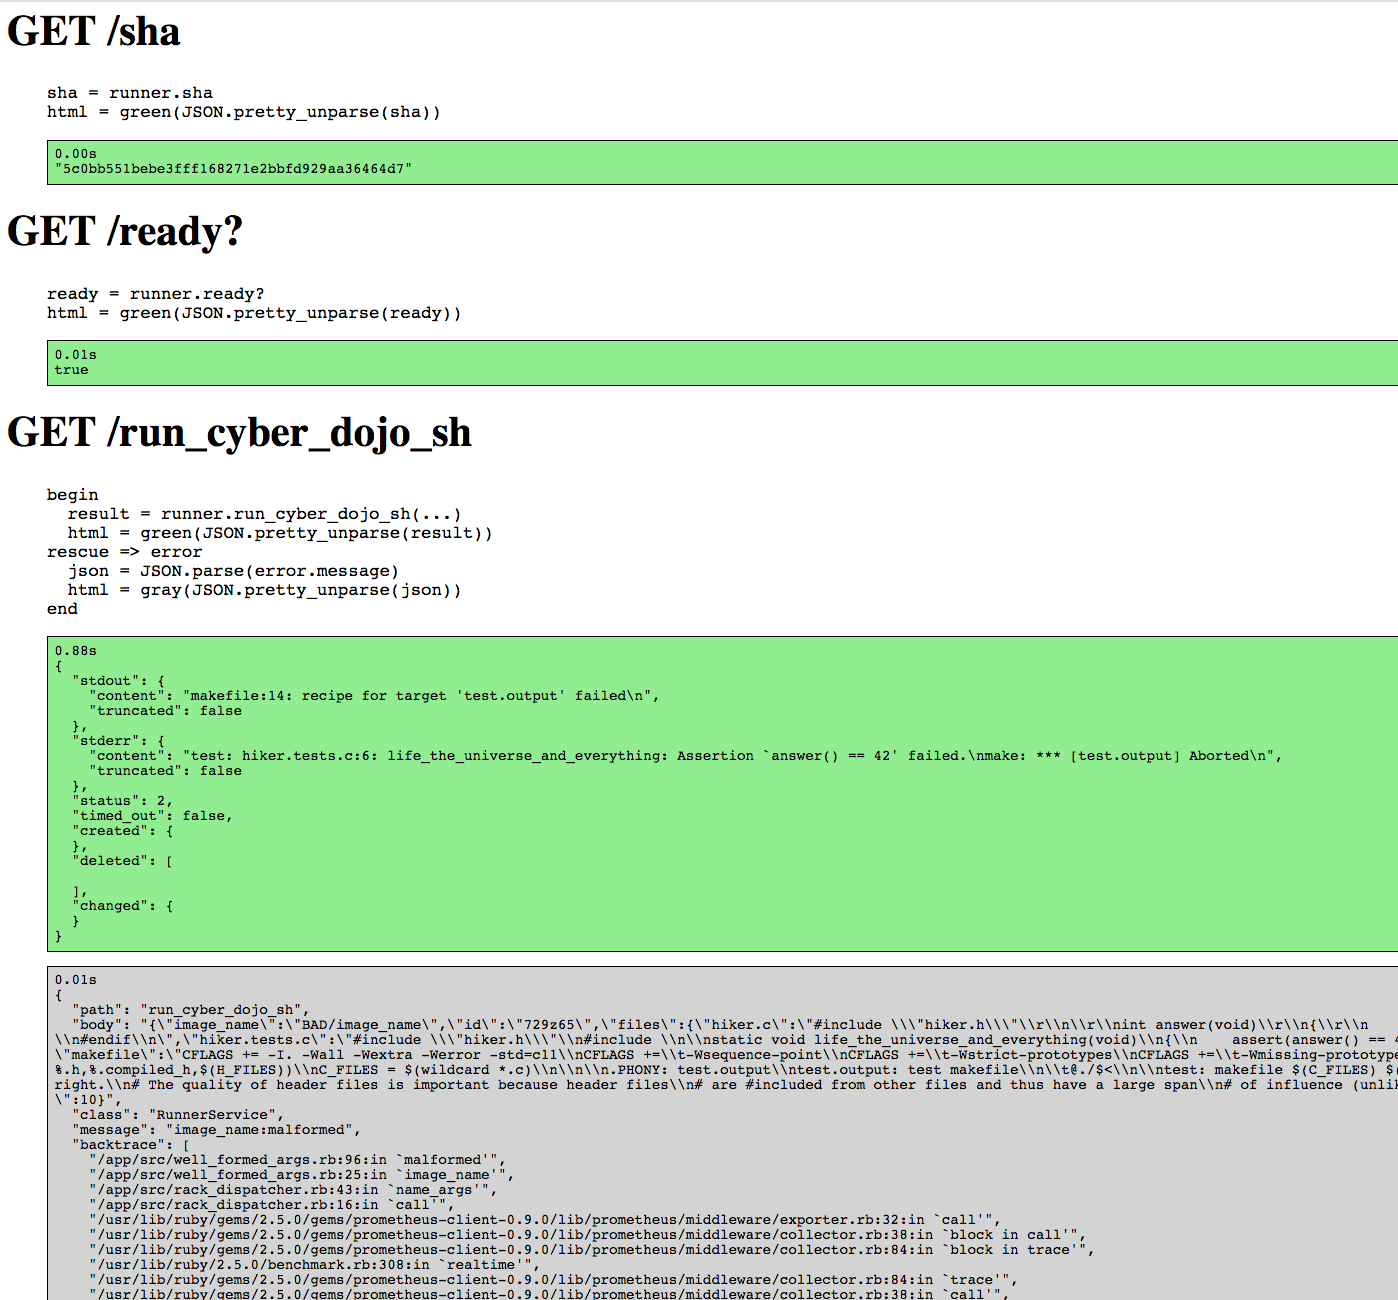
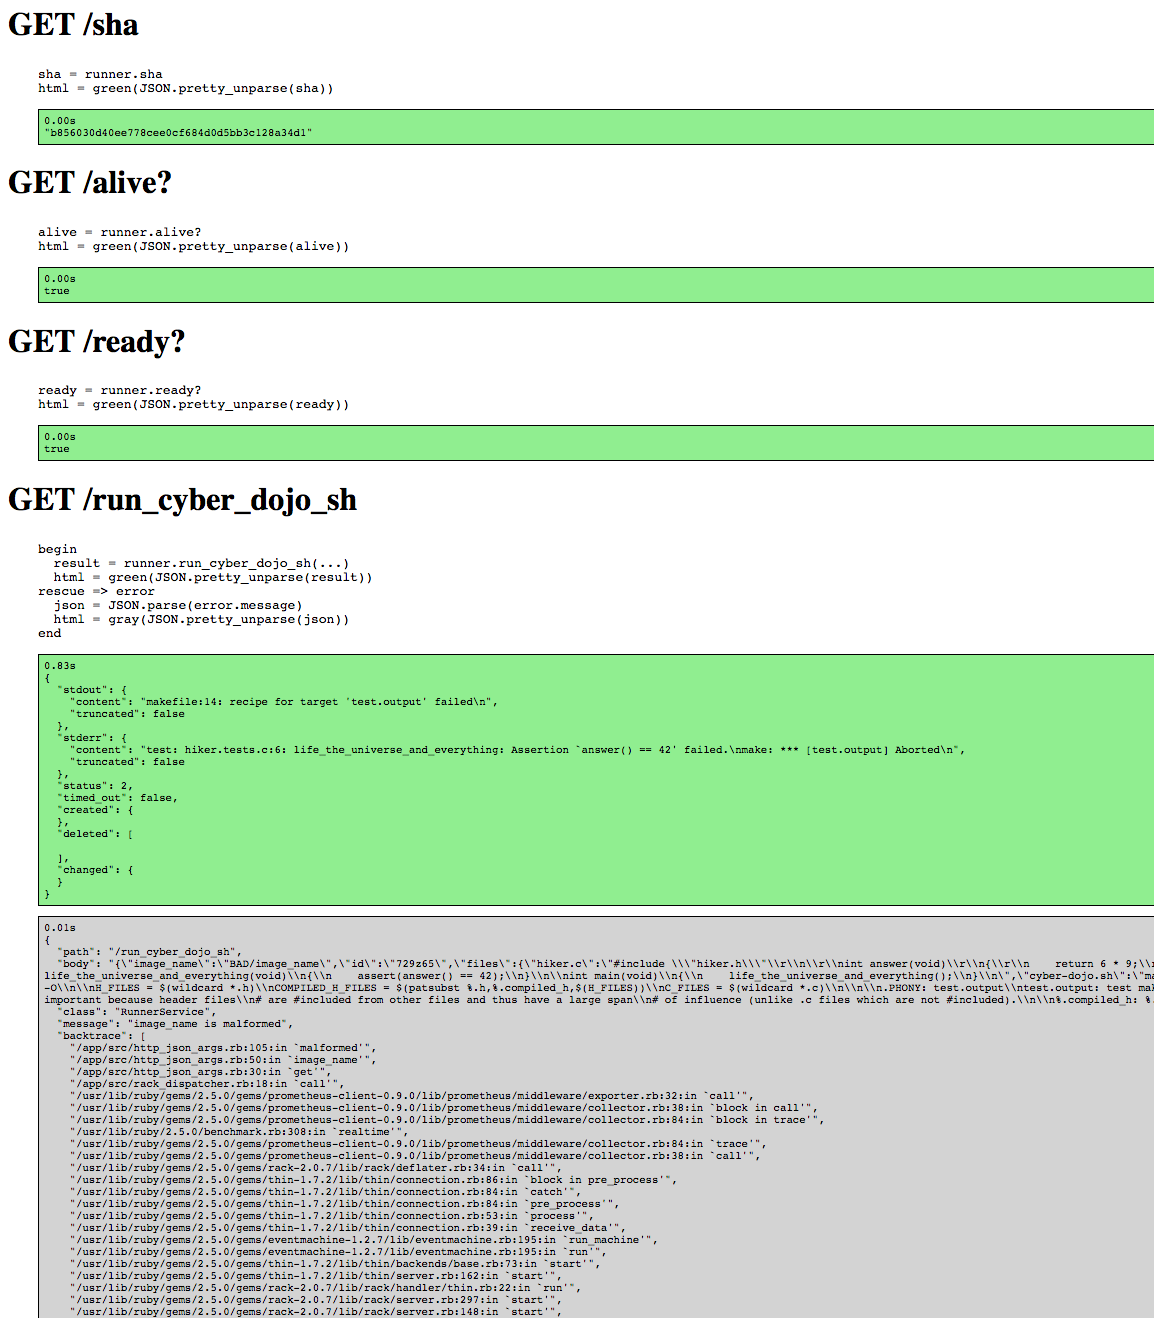
[ci skip] demo update

diff --git a/test_client/src/demo.rb b/test_client/src/demo.rb
@@ -15,10 +15,13 @@ class Demo
     @html += '<h1>GET /sha</h1>'
     @html += pre(sha_snippet)
     sha
+    @html += '<h1>GET /alive?</h1>'
+    @html += pre(alive_snippet)
+    alive?
     @html += '<h1>GET /ready?</h1>'
     @html += pre(ready_snippet)
     ready?
-    @html += '<h1>GET /run_cyber_dojo_sh</h1>'    
+    @html += '<h1>GET /run_cyber_dojo_sh</h1>'
     @html += pre(run_cyber_dojo_sh_snippet)
     @image_name = 'cyberdojofoundation/gcc_assert'
     @id = '729z65'
@@ -40,6 +43,20 @@ class Demo
     [
       'sha = runner.sha',
       'html = green(JSON.pretty_unparse(sha))'
+    ].join("\n")
+  end
+
+  # - - - - - - - - - - - - - - - - - - - - -
+
+  def alive?
+    duration = timed { @result = runner.alive? }
+    @html += boxed_pre(duration, @result)
+  end
+
+  def alive_snippet
+    [
+      'alive = runner.alive?',
+      'html = green(JSON.pretty_unparse(alive))'
     ].join("\n")
   end
 
